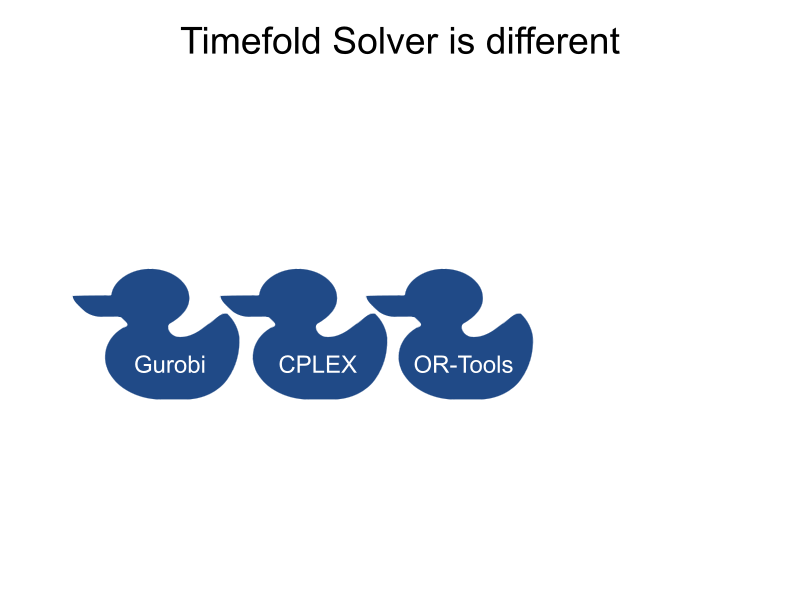
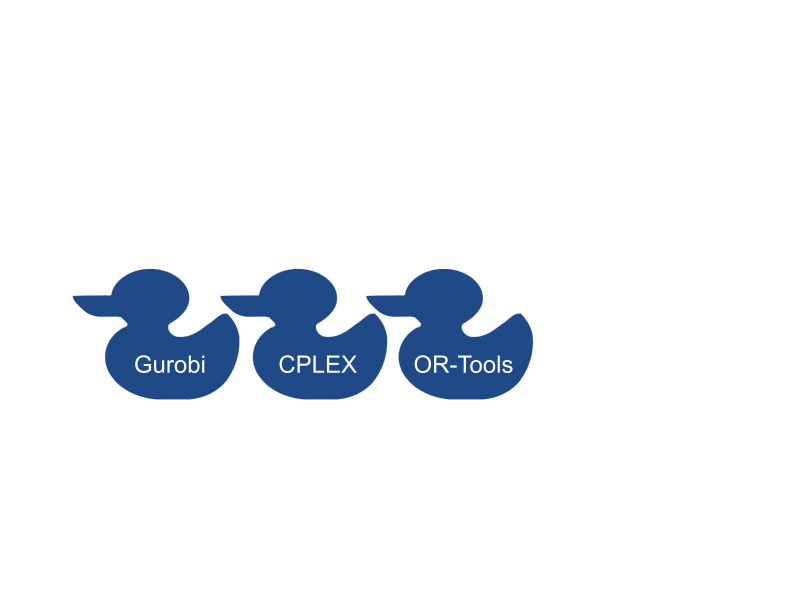
merge tom slides (sometimes commented out)

Changed region(s): [[0.2188, 0.03, 0.7812, 0.09]]

diff --git a/events/2025-01-31-Timefold_for_Operations_Research.html b/events/2025-01-31-Timefold_for_Operations_Research.html
@@ -148,7 +148,7 @@
             <h2>Can we fix that?</h2>
         </section>
         <section>
-            <p class="fragment highlight">Timefold mission</p>
+            <p class="fragment highlight">Our mission</p>
             <h2>Free the world of wasteful scheduling</h2>
         </section>
         <section>
@@ -177,202 +177,60 @@
             <img src="../src/content/static/operations-research/operations-research-project-lifecycle_19.png" class="fullImage fragment">
         </section>
         <section>
-            <h3>Timefold</h3>
-            <ul>
-                <li>Solver</li>
-                <li>REST APIs</li>
-            </ul>
-        </section>
-    </section>
-
-    <section>
-        <section data-background-color="#3e00ff">
-            <h2>Why are so many OR problems left unsolved?</h2>
-            <aside class="notes">
-                Hint at the complexity, then say: "maybe it's because of things like this: move to next slide"
-            </aside>
-        </section>
-        <section>
-            <h2>What does this do? -COMPEX MATH-</h2>
-            <aside class="notes">
-                Use this as an icebreaker, ask them the question, then point out it's a language not many people speak.
-                It's a bit like witchcraft, you can do amazing things with it, but only a limited set of people can understand it.
-                Bonus: Make the OR audience feel like superheroes, but also mention making it more accessible.
-            </aside>
-        </section>
-        <section>
-            <h2>Solved with:</h2>
-            <ul>
-                <li>LP</li>
-                <li>MIP</li>
-                <li>CP</li>
-                <li>Simplex</li>
-            </ul>
-            <div class="fragment" style="rotate: 30deg">These sound like a magical incantation 🪄</div>
-            <aside class="notes">
-                Magic is often not trusted by business
-            </aside>
-        </section>
-        <section data-background-color="#3e00ff">
-            <h2>Free the world of wasteful scheduling</h2>
-            <aside class="notes">
-                Complex math isn't going to work if we want to scale it up, we need to make it more approachable.
-            </aside>
-        </section>
-        <section>
-            <h2>How do we get there?</h2>
-            <ul>
-                <li>Teach about OR: Academy (video, blogs, etc)</li>
-                <li>Provide Easy to use OR Solutions:
-                    <ul>
-                        <li>Solver</li>
-                        <li>Pre-Made Models</li>
-                    </ul>
-                </li>
-            </ul>
-            <aside class="notes">
-                Give them an overview of what we do: "Come for the knowledge, stay for the platform"
-            </aside>
-        </section>
-    </section>
-
-    <section>
-        <aside class="notes">
-            // PART 1, Away from pure academical problems to the real world
-
-            TSP, VRP CVRP CVRPTW vs FSR
-            Racecar vs Real world
-        </aside>
-
-        <section data-background-color="#3e00ff">
-            <h2>From Operations Research to "GOOD NAME HERE" Operations</h2>
-            <aside class="notes">
-                Taking it to the business and getting it to work.
-            </aside>
-        </section>
-
-        <section>
-            <h2>Typical OR problem: TSP</h2>
-            <ul>
-                <li class="fragment"><strong>TSP (Traveling Salesman Problem)</strong></li>
-                <li class="fragment"><strong>VRP (Vehicle Routing Problem):</strong> multi-vehicle</li>
-                <li class="fragment"><strong>CVRP (Capacitated VRP):</strong> capacity limits</li>
-                <li class="fragment"><strong>CVRPTW (CVRP with Time Windows):</strong> Adding time constraints to deliveries.</li>
-            </ul>
-        </section>
-
-        <section>
-            <h2>Business Problems: FSR</h2>
-            <ul>
-                // HERE WE SHOW WE MASTER FSR, even show the link to some video.
-                Show more constraints.
-            </ul>
-        </section>
-
-        <section>
-            <h2>Academical 🏎 vs Business solutions 🚙</h2>
-
-        </section>
-
-    </section>
-
-    <section>
-        <aside class="notes">
-            // PART 2
-            Timefold Solver
-            Show a few quickstarts "Don't just believe us, try it yourself"
-            (Go into solver with Timefold + some benchmarks?)
-        </aside>
-        <section data-background-color="#3e00ff">
-            <h2>Timefold Solver</h2>
+            <h2>Succeed more<br/><span class="fragment"><span class="fragment">❤</span><br/>Fail faster</span></h2>
         </section>
         <section>
             <figure>
-                <img src="../src/content/timefold-solver-docs/shared/timefold-logo.png"/>
+                <img src="../src/content/timefold-solver-docs/shared/timefold-logo.png" height="100px"/>
             </figure>
-            <ul style="margin-top: 100px;">
-                <li class="fragment">Library of optimization algorithms</li>
-                <li class="fragment">AI, not ML</li>
-                <li class="fragment">Open Source (Apache license)</li>
-                <li class="fragment">Actively developed by our Open Core company</li>
+            <ul style="margin-top: 30px;">
+                <li class="fragment">Solver
+                    <ul><li>Open Source (Apache license)</li></ul>
+                </li>
+                <li class="fragment">REST APIs for
+                    <ul>
+                        <li>Field Service Routing</li>
+                        <li class="fragment">Employee Shift Scheduling</li>
+                        <li class="fragment">Machine Job Scheduling (coming soon)</li>
+                    </ul></li>
             </ul>
         </section>
-        <section>
-            <h3>🖊 Model domain</h3>
-            <h3 class="fragment">⚖ Define constraints</h3>
-            <h3 class="fragment"><span class="highlight"> 🚀 Run!</span></h3>
-        </section>
-        <section>
-            <h1>DEMO</h1>
-        </section>
-        <section>
-            Benchmark here?
-        </section>
-        <section>
-            Re-list benefits as opposed to other solvers.
-        </section>
     </section>
 
-    <section>
-        <aside class="notes">
-            // PART 3
-            Next level abstraction: Models
+<!--    <section>-->
+<!--        <section>-->
+<!--            <h2>Typical OR problem: TSP</h2>-->
+<!--            <ul>-->
+<!--                <li class="fragment"><strong>TSP (Traveling Salesman Problem)</strong></li>-->
+<!--                <li class="fragment"><strong>VRP (Vehicle Routing Problem):</strong> multi-vehicle</li>-->
+<!--                <li class="fragment"><strong>CVRP (Capacitated VRP):</strong> capacity limits</li>-->
+<!--                <li class="fragment"><strong>CVRPTW (CVRP with Time Windows):</strong> Adding time constraints to deliveries.</li>-->
+<!--            </ul>-->
+<!--        </section>-->
+<!--        <section>-->
+<!--            <h2>Business Problems: FSR</h2>-->
+<!--            <ul>-->
+<!--                // HERE WE SHOW WE MASTER FSR, even show the link to some video.-->
+<!--                Show more constraints.-->
+<!--            </ul>-->
+<!--        </section>-->
+<!--    </section>-->
 
-            Focus on:
-            - ease of use
-            - performance
-            - Time to market and thus reduced risk
-        </aside>
-        <section data-background-color="#3e00ff">
-            <h2>Timefold Platform and Models</h2>
-        </section>
-
-        <section>
-            <h2>The reality is:</h2>
-            <h3 class="fragment">Not everyone can <span class="highlight">model</span></h3>
-            <h3 class="fragment">Not everyone has <span class="highlight">time</span></h3>
-        </section>
-
-        <section>
-            <h1>To complete our mission, we need to offer <span class="highlight">an alternative</span> way to remove wasteful scheduling</h1>
-        </section>
-
-        <section data-background-size="contain"
-                 data-background-repeat="none"
-                 data-background-image="../src/content/timefold-field-service-routing/getting-started/basic-demo-overview.png">
-            <span class="highlight fragment">Our Expertise in a box!</span>
-        </section>
-
-        <section>
-            <h1>Ready to <span class="highlight">Optimize!</span></h1>
-            <h3 class="fragment" style="text-decoration: line-through">🖊 Model domain</h3>
-            <h3 class="fragment">⚖ <span style="text-decoration: line-through">Define</span> tune constraints</h3>
-            <h3 class="fragment"><span class="highlight"> 🚀 Run!</span></h3>
-        </section>
-
-        <section>
-            <h1>DEMO</h1>
-        </section>
-
-        <section>
-            Re-list benefits: Ease of use, Performant, Our"
-        </section>
-
-    </section>
-
-    <!-- TEMPORARY: Above is Tom's piece, below is Geof's piece -->
-    <section>
-        <section data-background-color="#3e00ff">
-            <h2>The state of Operations Research</h2>
-        </section>
-        <!-- 90% slide -->
-
-    </section>
     <section>
         <section data-background-color="#3e00ff">
             <h2>Timefold Solver</h2>
             <p>Open source</p>
         </section>
+<!--        <section>-->
+<!--            <h2>Solved with:</h2>-->
+<!--            <ul>-->
+<!--                <li>LP</li>-->
+<!--                <li>MIP</li>-->
+<!--                <li>CP</li>-->
+<!--                <li>Simplex</li>-->
+<!--            </ul>-->
+<!--            <div class="fragment" style="rotate: 30deg">These sound like a magical incantation 🪄</div>-->
+<!--        </section>-->
         <section>
             <!-- TODO remove title-->
             <img src="../src/content/static/operations-research/operations-research-ugly-duckling_0.png" class="fullImage">
@@ -485,6 +343,9 @@
             <p class="fragment">Only 250k tuples <br/>in memory</p>
             <p class="fragment positive">Lazy, incremental and indexed</p>
         </section>
+<!--        <section>-->
+<!--            <h2>Academical 🏎 vs Business solutions 🚙</h2>-->
+<!--        </section>-->
         <section>
             <h3>How many solutions per second?</h3>
             <div class="fragment">
@@ -527,7 +388,23 @@
             <h2>DEMO</h2>
             <p>docs.timefold.ai</p>
         </section>
+    </section>
 
+    <section>
+        <section data-background-color="#3e00ff">
+            <h2>Field Service Routing</h2>
+        </section>
+        <section>
+            <h3>🖊 Model domain</h3>
+            <h3 class="fragment">⚖ Define constraints</h3>
+            <h3 class="fragment"><span class="highlight">🚀 Run!</span></h3>
+        </section>
+        <section>
+            <h1>Ready to <span class="highlight">Optimize!</span></h1>
+            <h3 class="fragment" style="text-decoration: line-through">🖊 Model domain</h3>
+            <h3 class="fragment">⚖ <span style="text-decoration: line-through">Define</span> tune constraints</h3>
+            <h3 class="fragment"><span class="highlight"> 🚀 Run!</span></h3>
+        </section>
     </section>
 
     <section>
